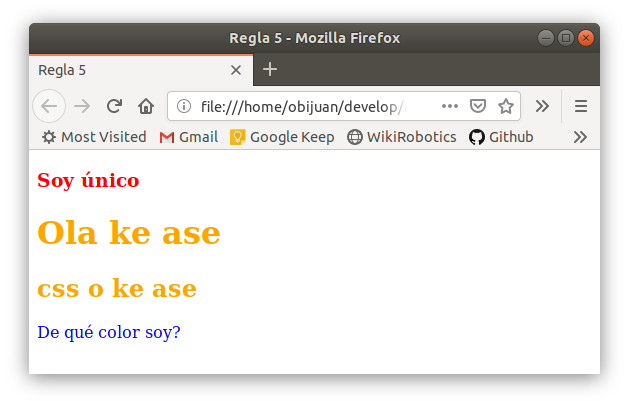
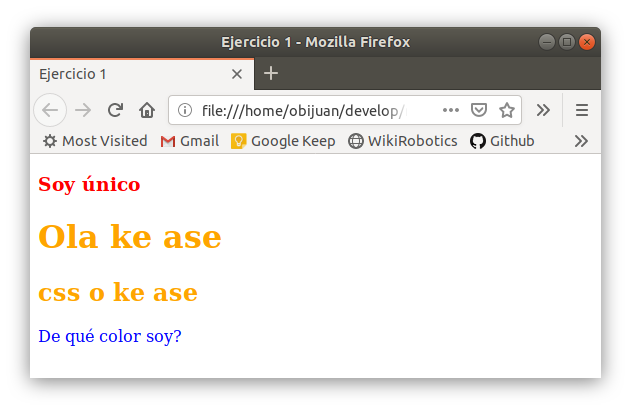
S3: Exercise 1 updated

diff --git a/wiki/S03-CSS/examples/Ej-01.html b/wiki/S03-CSS/examples/Ej-01.html
@@ -2,7 +2,7 @@
 <html lang="es" dir="ltr">
   <head>
     <meta charset="utf-8">
-    <title>Regla 5</title>
+    <title>Ejercicio 1</title>
     <link rel="stylesheet" href="Ej-01.css">
   </head>
 
